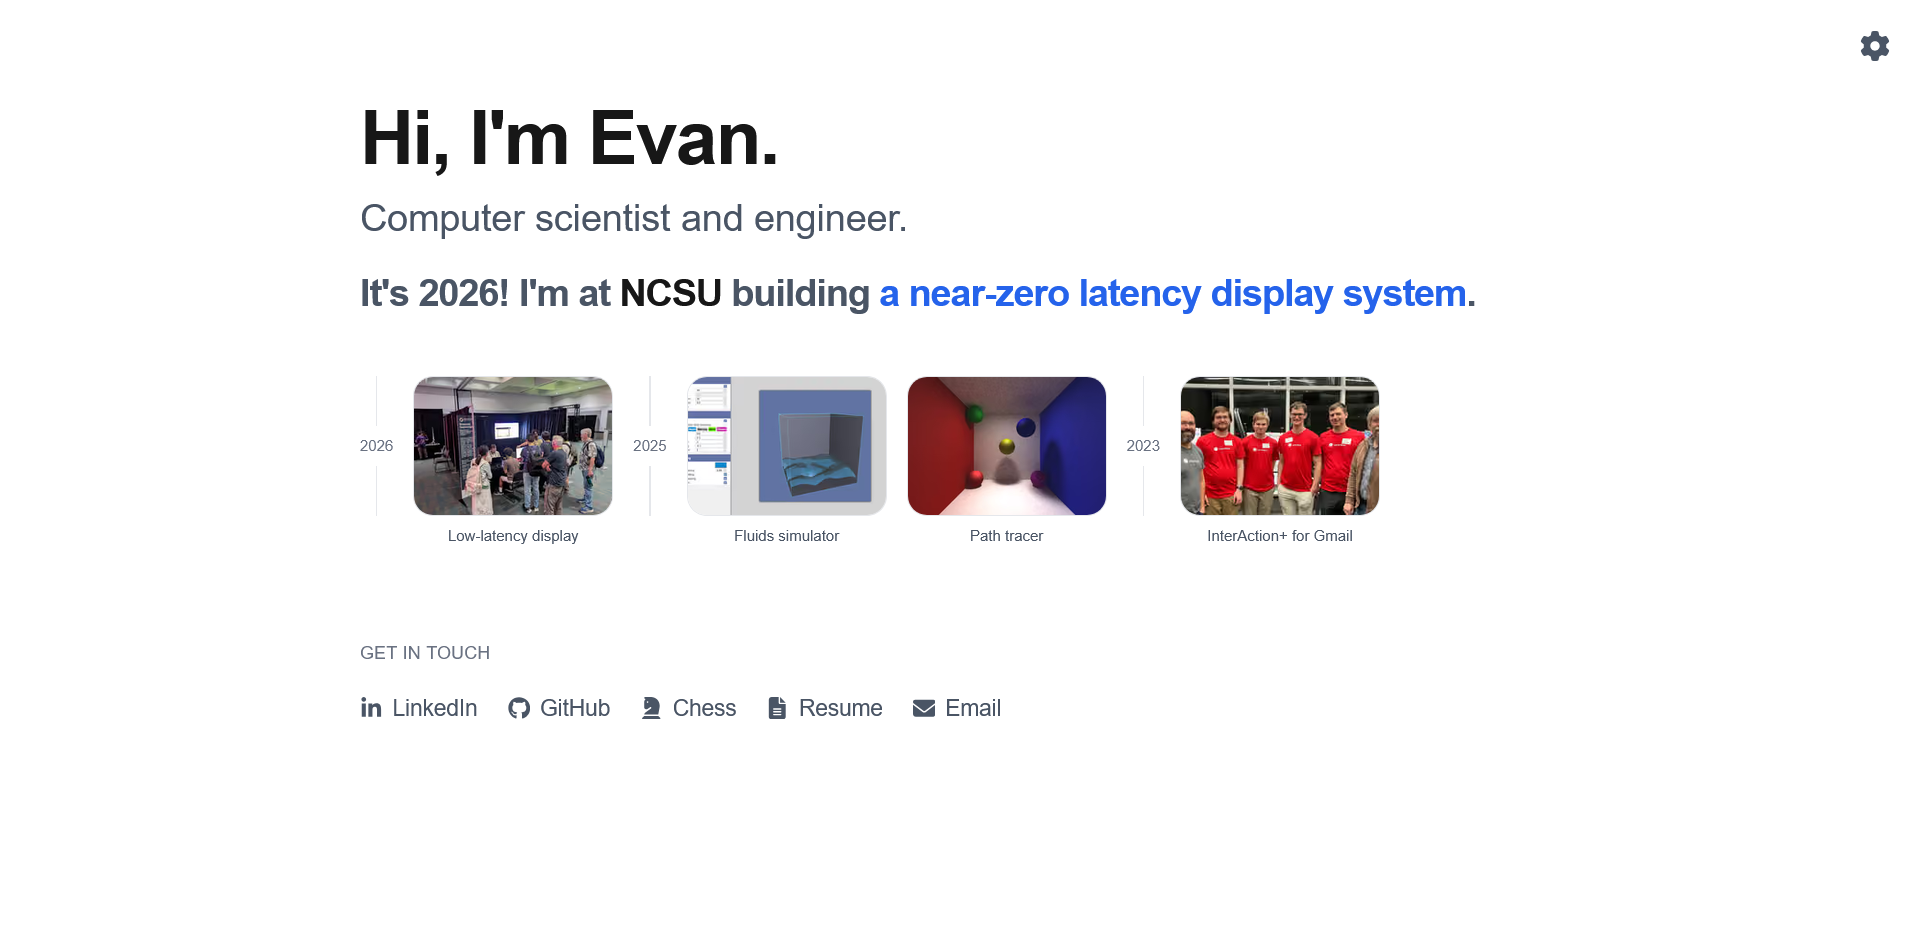
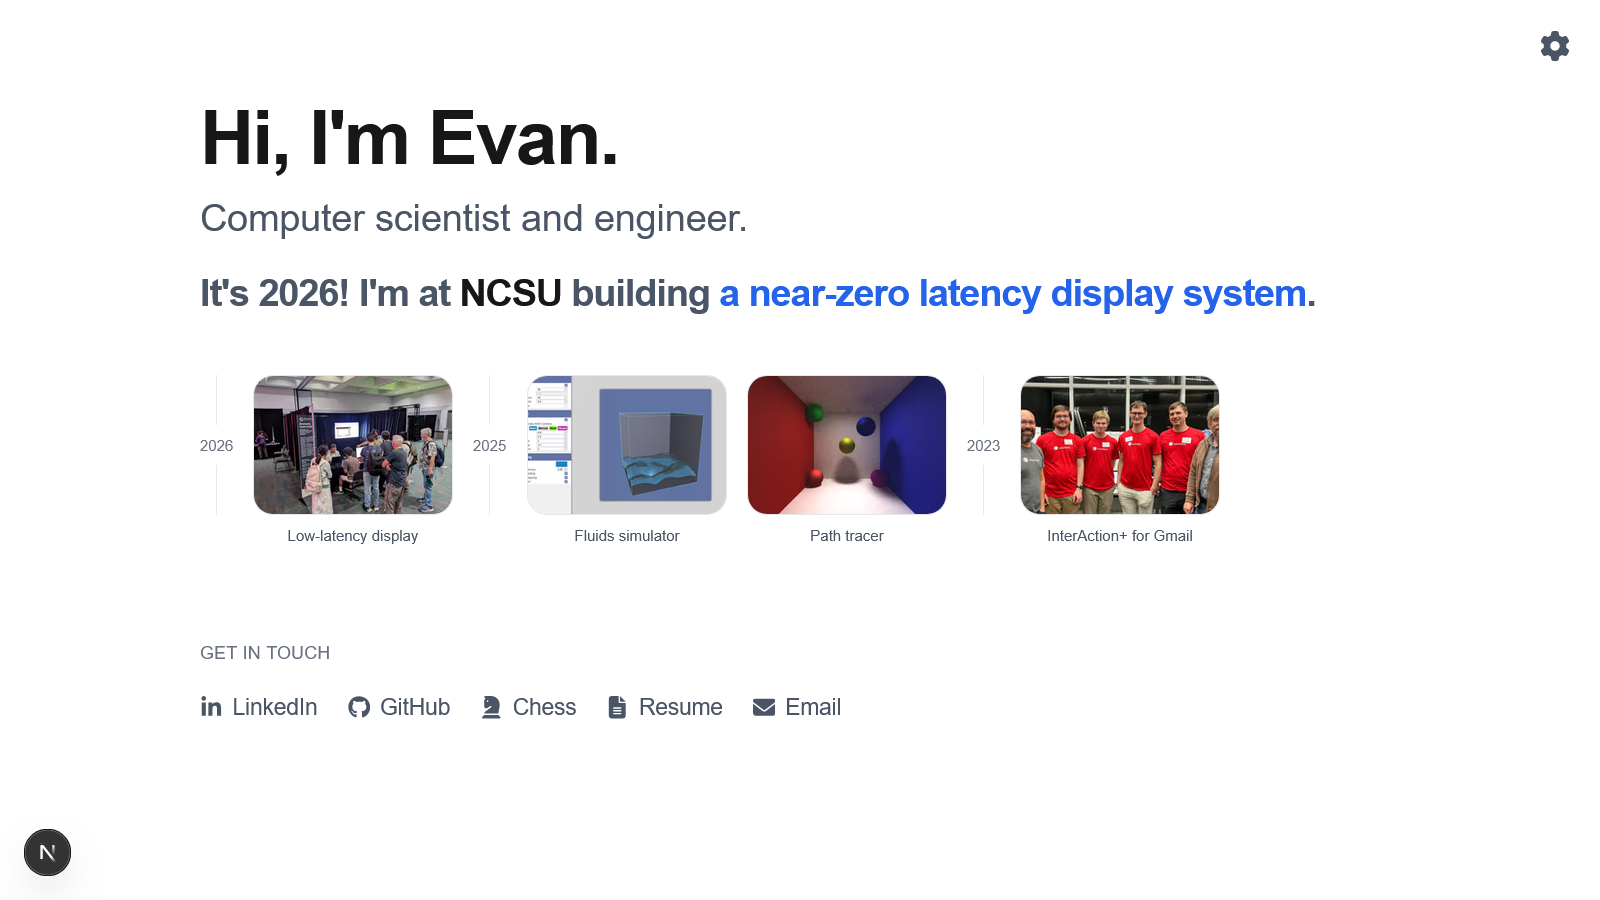
manifest
fixing screenshot sizes

diff --git a/src/app/manifest.ts b/src/app/manifest.ts
@@ -30,13 +30,13 @@ export default function manifest(): MetadataRoute.Manifest {
         screenshots: [
             {
                 src: "/screenshots/desktop.png",
-                sizes: "1280x720",
+                sizes: "1600x900",
                 type: "image/png",
                 form_factor: "wide",
             },
             {
                 src: "/screenshots/mobile.png",
-                sizes: "750x1334",
+                sizes: "937x1667",
                 type: "image/png",
                 form_factor: "narrow",
             },
